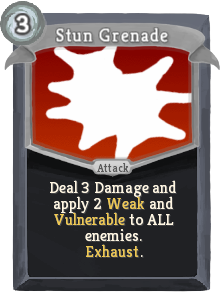
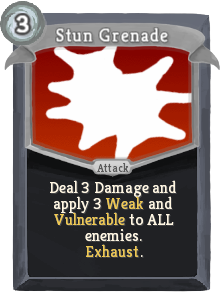
v0.2.7

Changed region(s): [[0.4062, 0.6513, 0.7812, 0.7105]]

diff --git a/index.html b/index.html
@@ -193,7 +193,7 @@
         <td>Common</td>
         <td>Attack</td>
         <td>0</td>
-        <td>Expose yourself. Deal 5 Damage. Draw a 0-cost card from your draw pile. (If there are none, draw 2 cards.)</td>
+        <td>Expose yourself. Deal 5 Damage. Draw a 0-cost card from your draw pile. (If there are none, shuffle your discard into your draw pile.)</td>
       </tr>
       
       <tr>
@@ -313,7 +313,7 @@
         <td>Common</td>
         <td>Skill</td>
         <td>1</td>
-        <td>Innate. Ethereal. Gain 9(13) Block. Exhaust.</td>
+        <td>Innate. Ethereal. Gain 10(14) Block. Exhaust.</td>
       </tr>
       
       <tr>
@@ -432,7 +432,7 @@
         <td><img src="card-images/FriendlyFirePlus.png"></td>
         <td>Rare</td>
         <td>Power</td>
-        <td>4(3)</td>
+        <td>3(2)</td>
         <td>For every Burning damage you deal, gain that much Block.</td>
       </tr>
       
@@ -623,7 +623,7 @@
         <td>Rare</td>
         <td>Attack</td>
         <td>3</td>
-        <td>Deal 1 Silent Damage to random enemy 12(16) times. Crit: !C! % Ignores Precision. Fires once more for every Critical hit.</td>
+        <td>Deal 1 Silent Damage to random enemy 11(15) times. Crit: !C! % Ignores Precision. Fires once more for every Critical hit.</td>
       </tr>
       
       <tr>
@@ -833,7 +833,7 @@
         <td>Basic</td>
         <td>Attack</td>
         <td>3</td>
-        <td>(Innate.) Deal 3(4) Damage and apply 2(3) Weak and Vulnerable to ALL enemies. Exhaust.</td>
+        <td>(Innate.) Deal 3(6) Damage and apply 3(4) Weak and Vulnerable to ALL enemies. Exhaust.</td>
       </tr>
       
       <tr>
